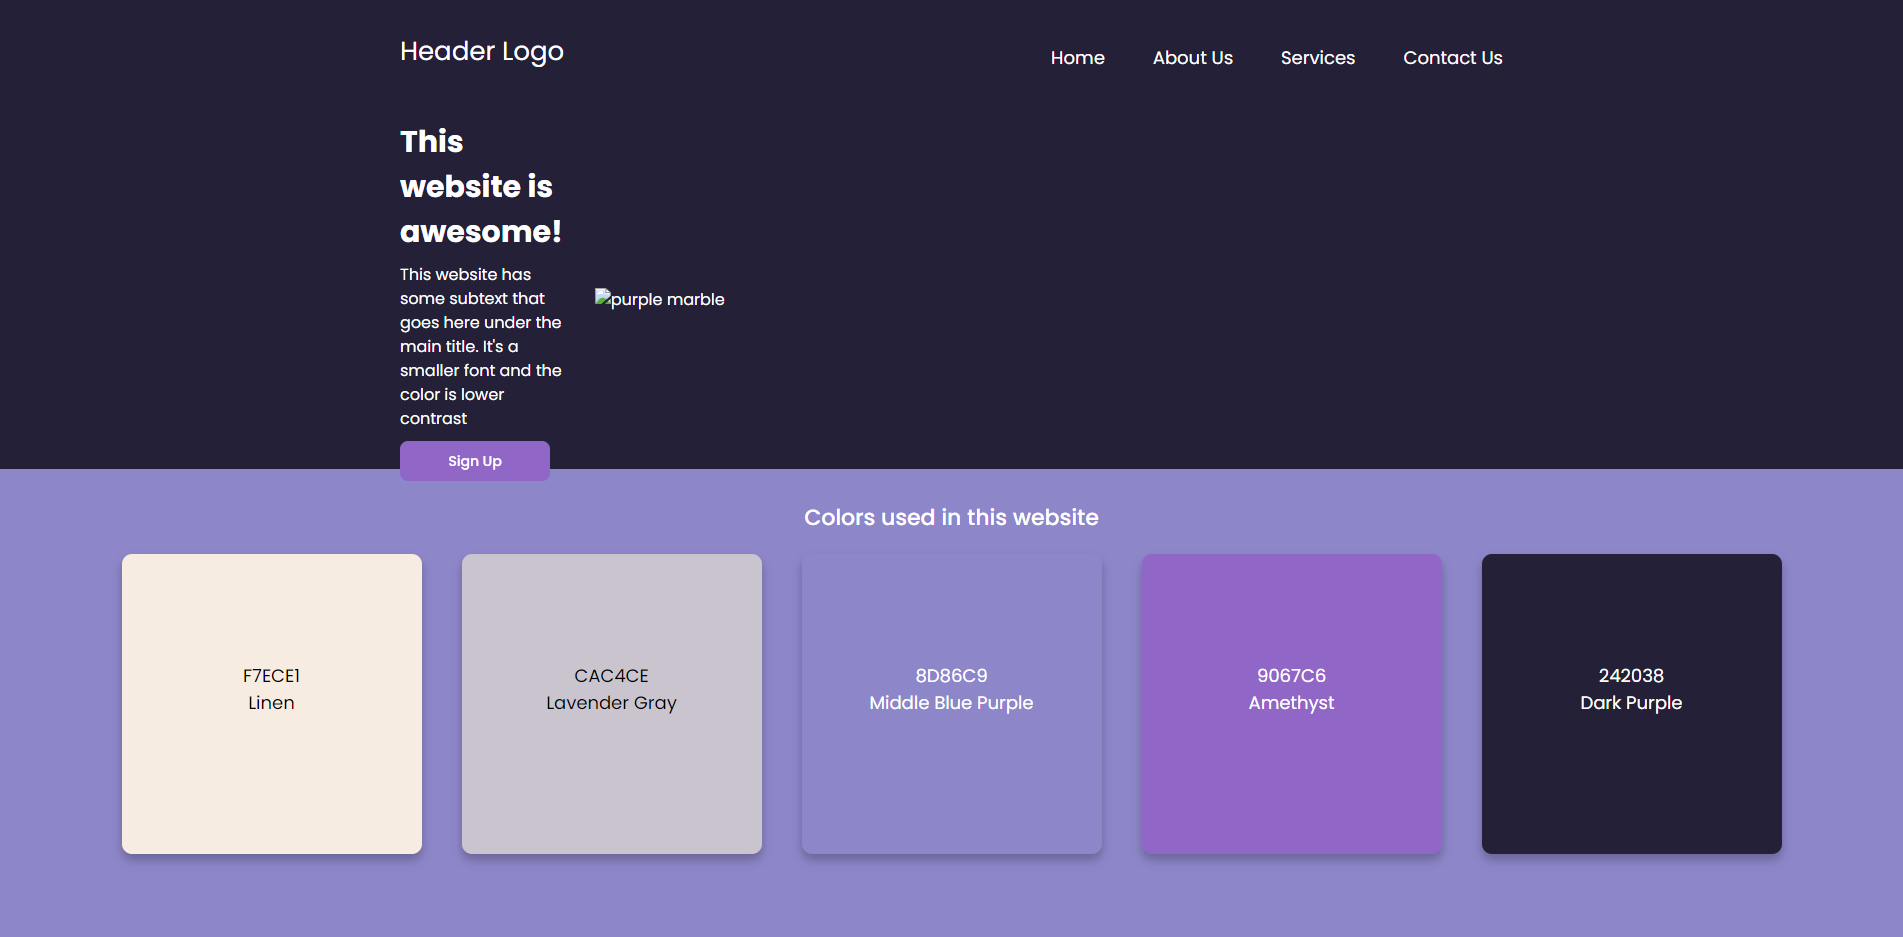
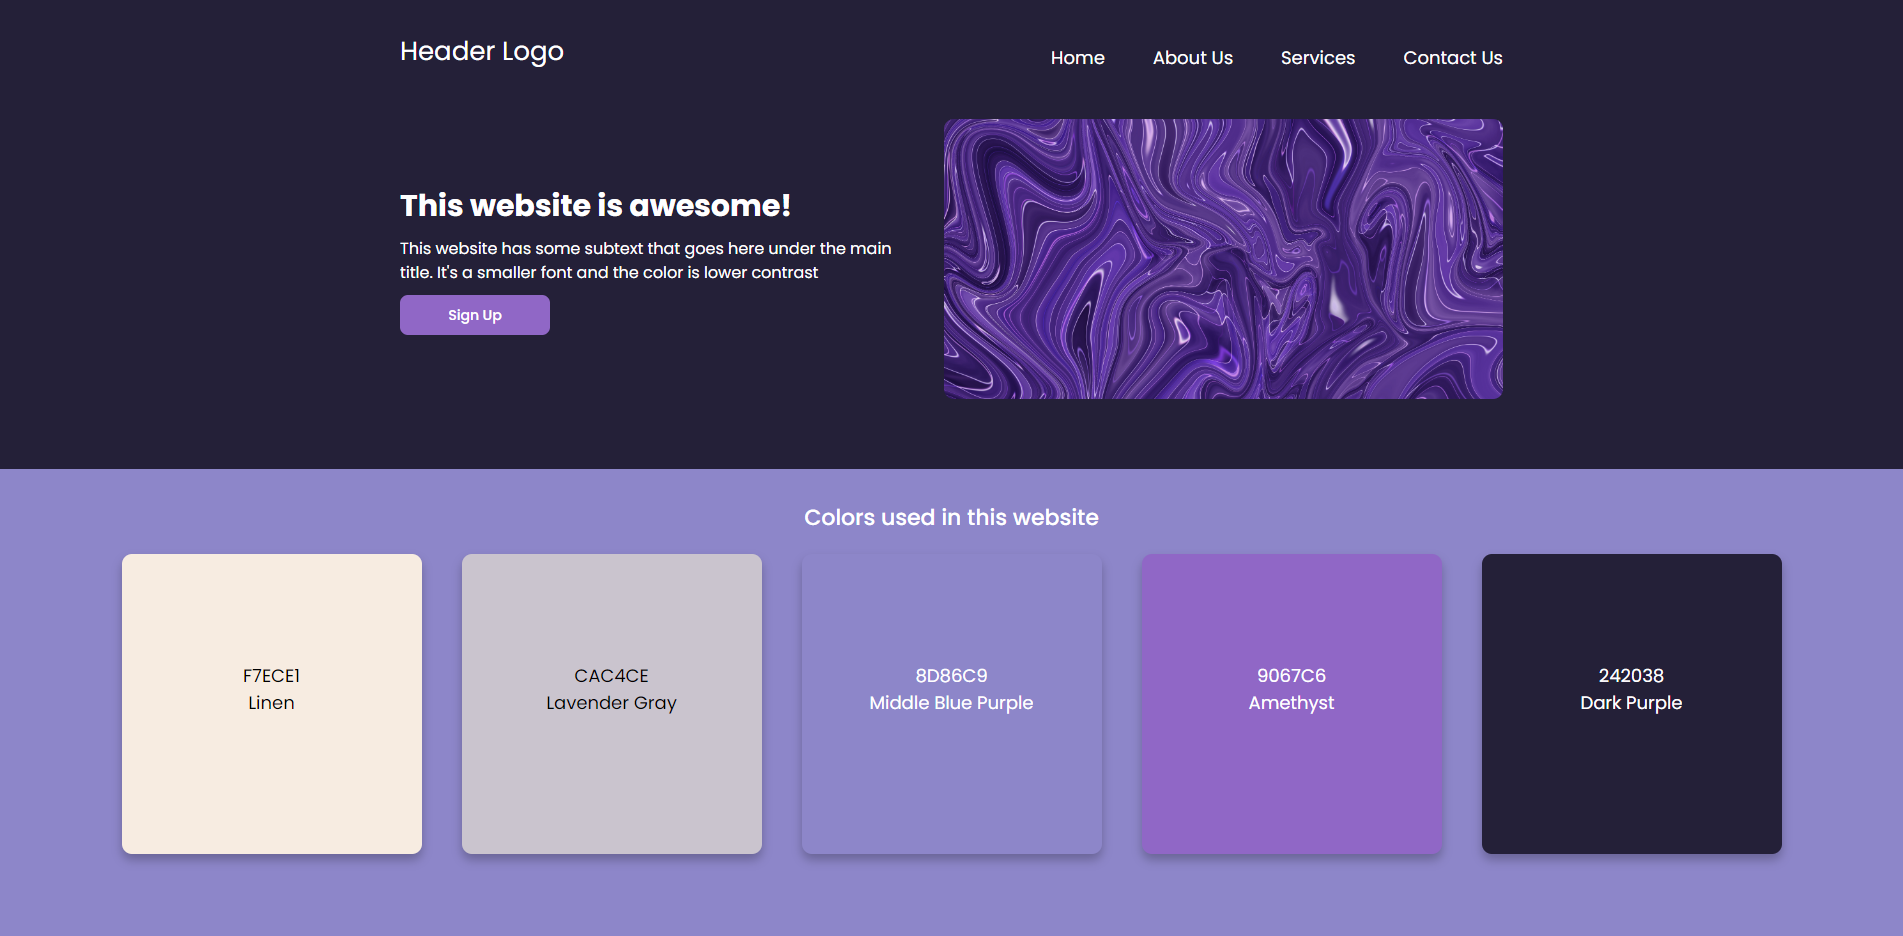
Complete README.md

diff --git a/README.md b/README.md
@@ -1,1 +1,24 @@
-# odin-landing-page
+
+# Odin Landing Page
+
+A simple beginner landing page that only incorporates HTML5 and CSS.
+This website is meant to be viewed in desktop mode, as at this point, I have not learned
+the tools for responsiveness. Future implementation will incorporate responsiveness for mobile in mind.
+
+This project uses the essential elements and components from [The Odin Project's project template](https://cdn.statically.io/gh/TheOdinProject/curriculum/81a5d553f4073e593d23a6ab00d50eef8620796d/foundations/html_css/project/imgs/01.png), 
+while allowing for the developer's customization.
+
+## Usage/Examples
+
+[Github Deployment](https://mcabal77.github.io/odin-landing-page/)
+![](imgs/webpage-1.png)
+![](imgs/webpage-2.png)
+
+## Support
+
+There is currently a known bug where the image fails to load on deployment page.
+Future support will be implemented to resolve this. 
+## Acknowledgements
+
+ Hero Image by [Benzoix](https://www.freepik.com/author/benzoix)
+ 
